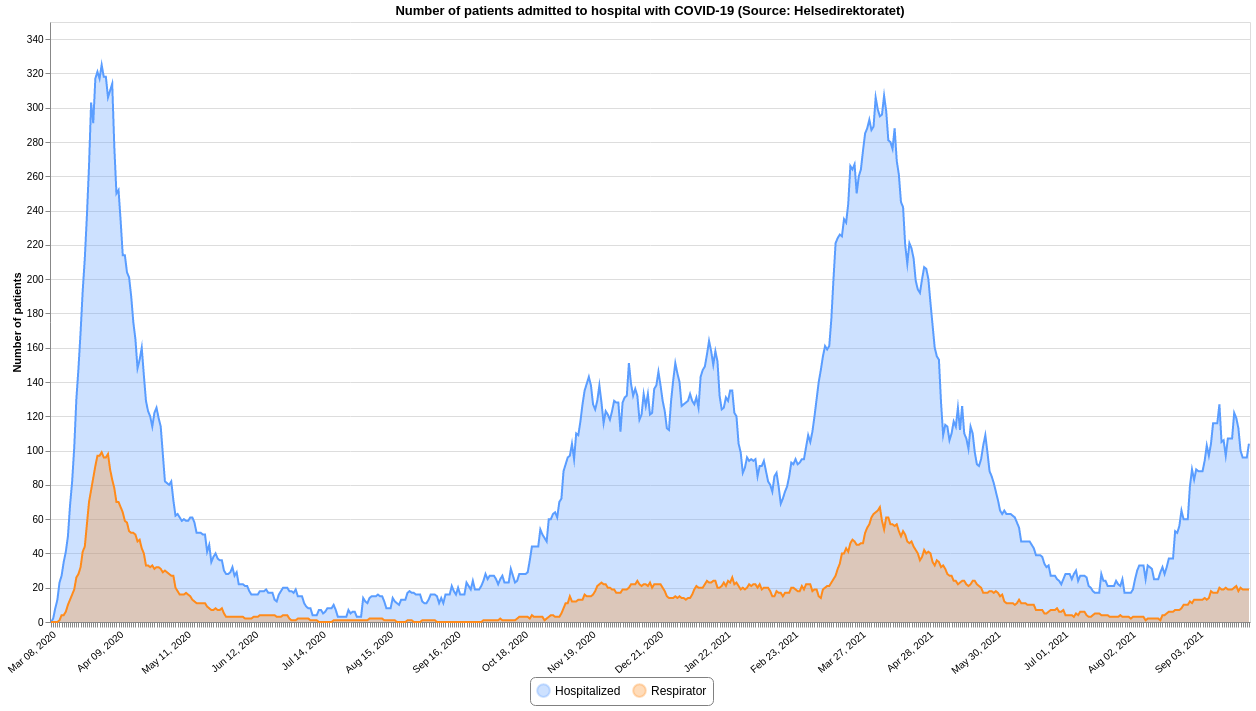
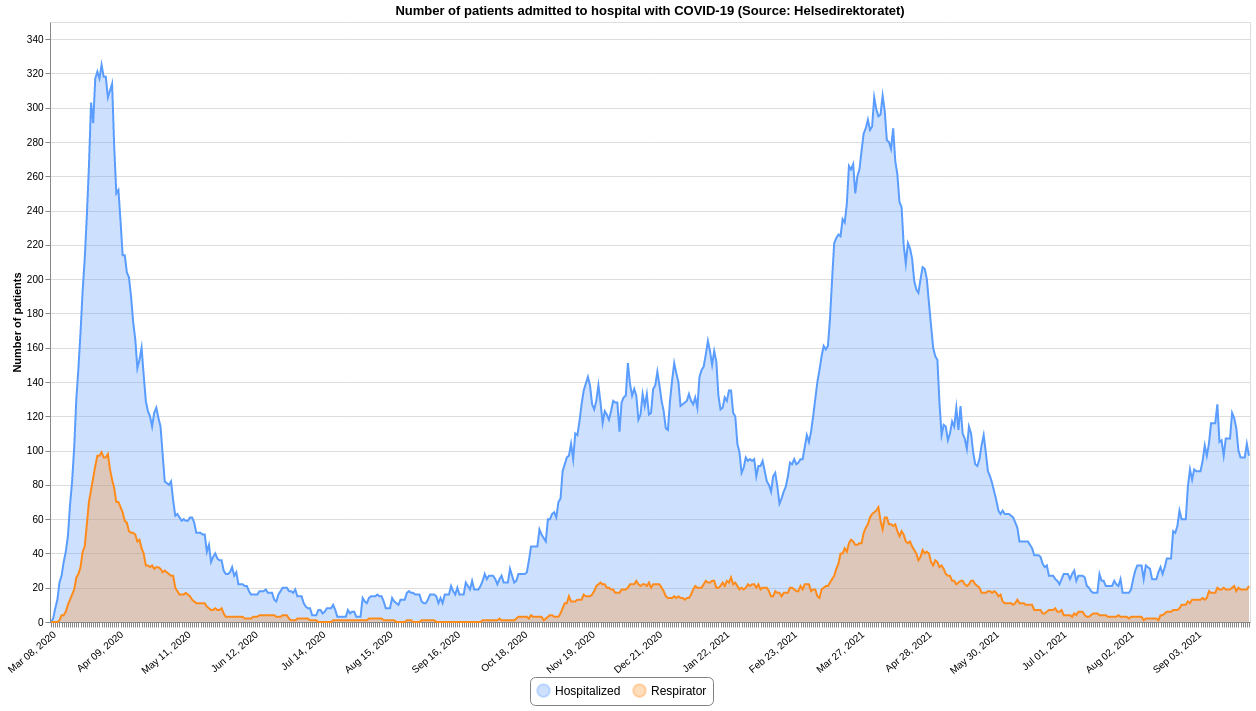
Updated 2021-09-28 11:51

diff --git a/README.md b/README.md
@@ -12,7 +12,7 @@ This repository contains datasets of daily time-series data related to COVID-19 
 | :--- | :--- | :--- | :--- | :--- |
 |[Confirmed](#confirmedcsv)|FHI / MSIS|2021-09-28 00:10:44+02:00|[<center>csv</center>](https://raw.githubusercontent.com/frefrik/covid19norge-data/main/data/confirmed.csv)|[<center>preview</center>](data/confirmed.csv)|
 |[Dead](#deadcsv)|FHI|2021-09-27 13:20:58+02:00|[<center>csv</center>](https://raw.githubusercontent.com/frefrik/covid19norge-data/main/data/dead.csv)|[<center>preview</center>](data/dead.csv)|
-|[Hospitalized](#hospitalizedcsv)|Helsedirektoratet|2021-09-27 12:20:48+02:00|[<center>csv</center>](https://raw.githubusercontent.com/frefrik/covid19norge-data/main/data/hospitalized.csv)|[<center>preview</center>](data/hospitalized.csv)|
+|[Hospitalized](#hospitalizedcsv)|Helsedirektoratet|2021-09-28 11:50:54+02:00|[<center>csv</center>](https://raw.githubusercontent.com/frefrik/covid19norge-data/main/data/hospitalized.csv)|[<center>preview</center>](data/hospitalized.csv)|
 |[Tested](#testedcsv)|FHI|2021-09-27 13:30:48+02:00|[<center>csv</center>](https://raw.githubusercontent.com/frefrik/covid19norge-data/main/data/tested.csv)|[<center>preview</center>](data/tested.csv)|
 |[Tested Lab](#tested_labcsv)|FHI|2021-09-27 13:20:52+02:00|[<center>csv</center>](https://raw.githubusercontent.com/frefrik/covid19norge-data/main/data/tested_lab.csv)|[<center>preview</center>](data/tested_lab.csv)|
 |[Transport](#transportcsv)|FHI|2021-09-24 23:10:46+02:00|[<center>csv</center>](https://raw.githubusercontent.com/frefrik/covid19norge-data/main/data/transport.csv)|[<center>preview</center>](data/transport.csv)|
